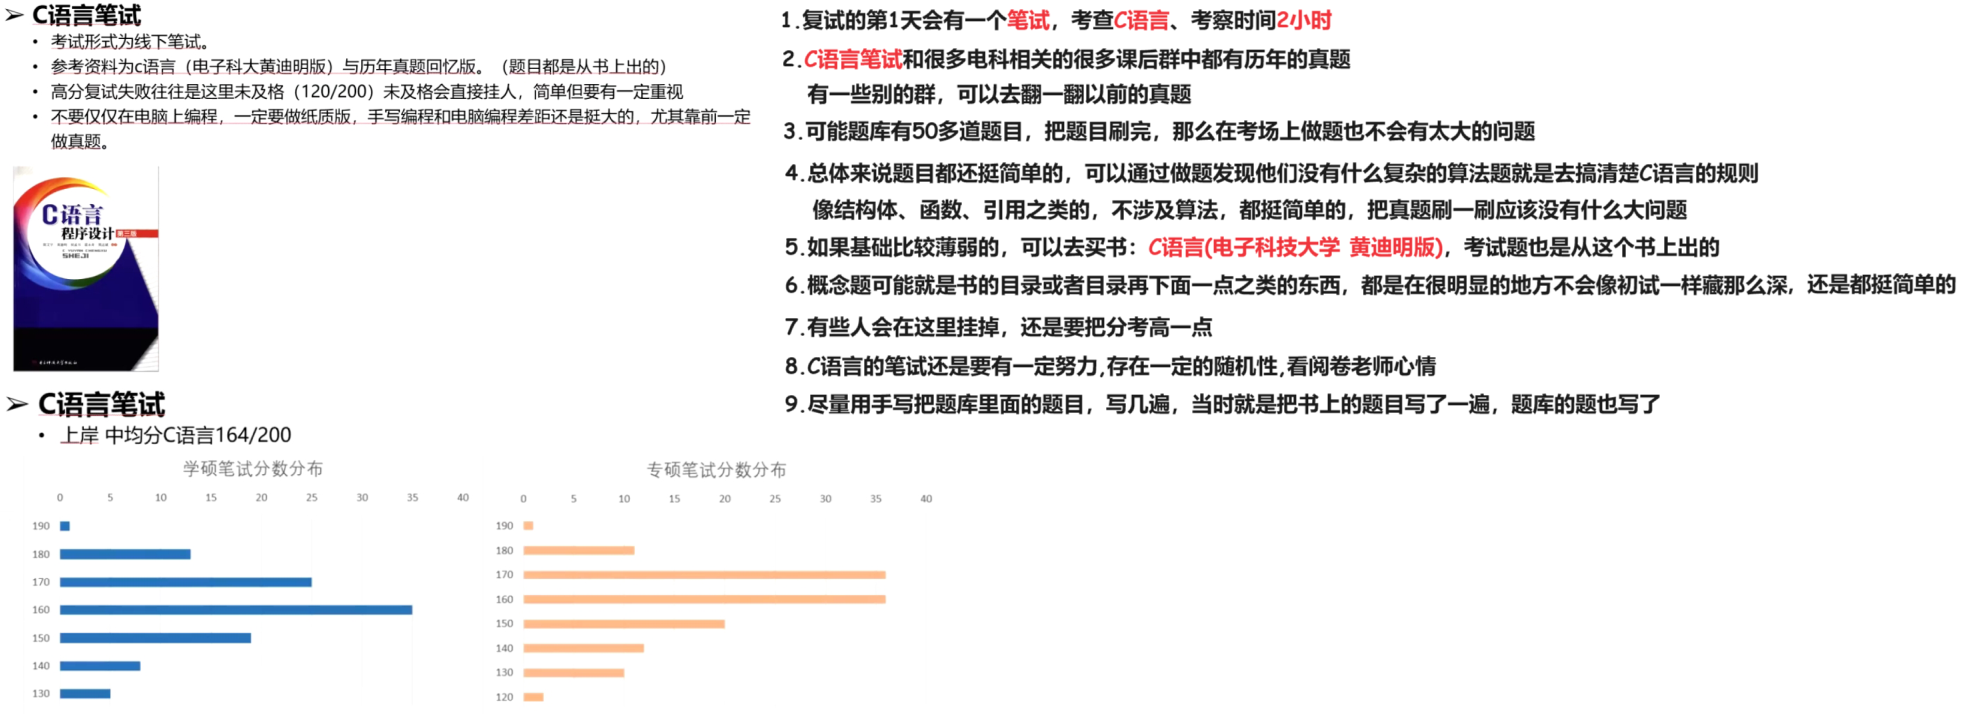
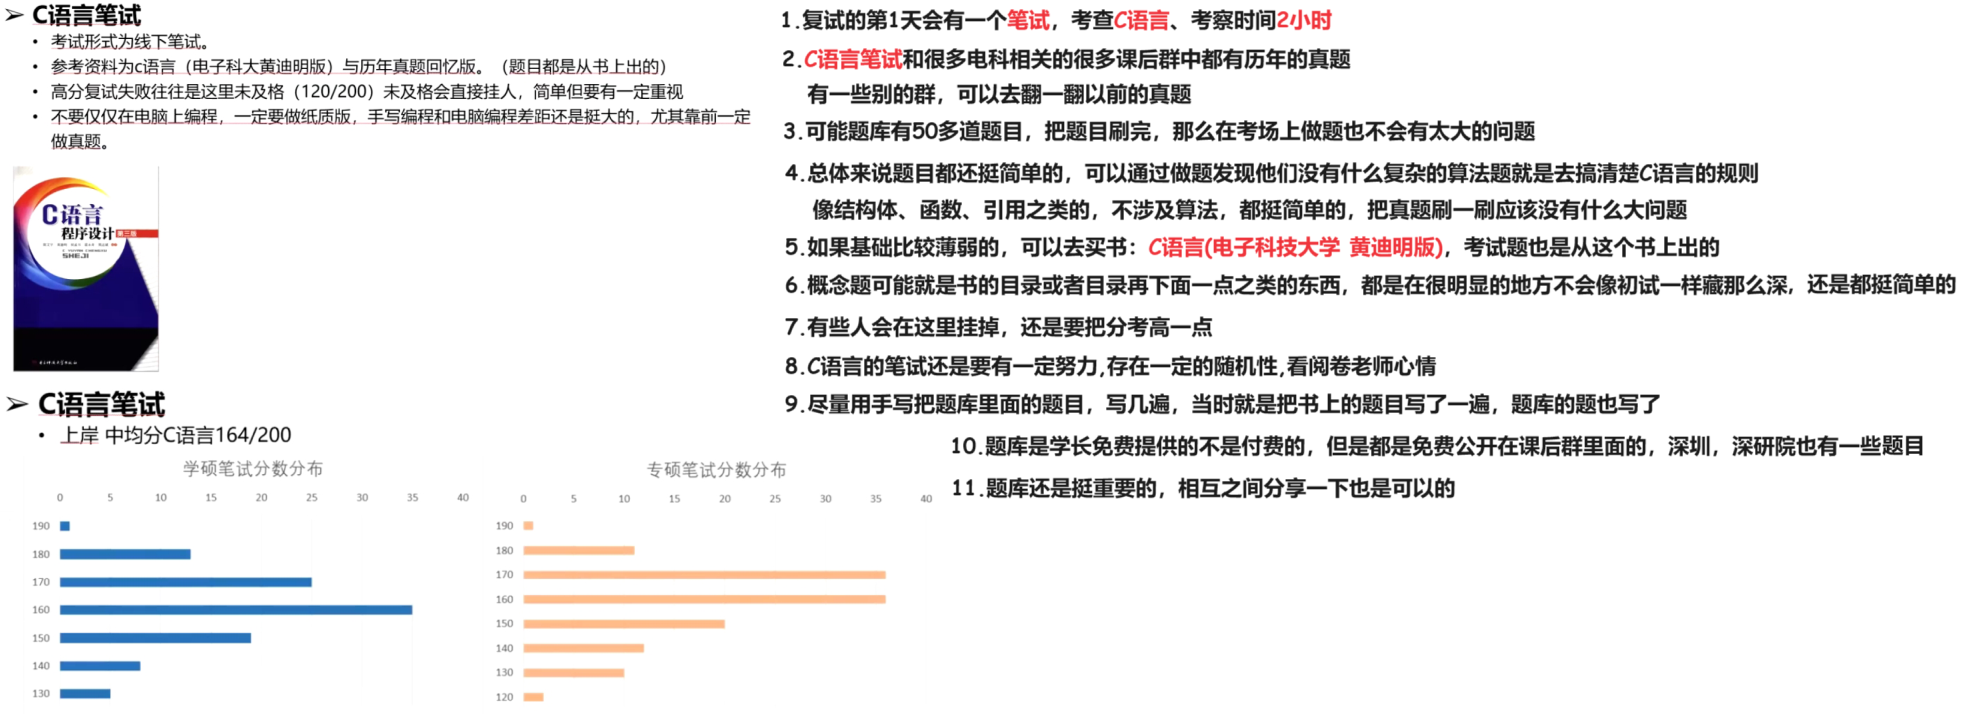
240317

Changed region(s): [[0.4654, 0.5854, 0.9929, 0.7087]]

diff --git a/02 复试/01 24 820定向班/02 直播视频/01 24 820定向班 复试指导直播 240317/02 Doc.md b/02 复试/01 24 820定向班/02 直播视频/01 24 820定向班 复试指导直播 240317/02 Doc.md
@@ -48,7 +48,9 @@
 
 # 03 C语言笔试
 
-<img src="https://cvp.oss-cn-shanghai.aliyuncs.com/picgo/202403161333287.png" alt="image-20240316133334116" style="zoom:50%;" />
+<img src="https://cvp.oss-cn-shanghai.aliyuncs.com/picgo/202403170846465.png" alt="image-20240317084653338" style="zoom:50%;" />
+
+
 
 # 04 专业课抽题
 
@@ -62,7 +64,7 @@
 
 # 05 简历准备
 
-<img src="https://cvp.oss-cn-shanghai.aliyuncs.com/picgo/202403170748553.png" alt="image-20240317074826368" style="zoom:50%;" />
+<img src="https://cvp.oss-cn-shanghai.aliyuncs.com/picgo/202403170909797.png" alt="image-20240317090910607" style="zoom:50%;" />
 
 
 
@@ -78,7 +80,7 @@
 
 ## 02 发邮件
 
-<img src="https://cvp.oss-cn-shanghai.aliyuncs.com/picgo/202403170832367.png" alt="image-20240317083259186" style="zoom:50%;" />
+<img src="https://cvp.oss-cn-shanghai.aliyuncs.com/picgo/202403170850298.png" alt="image-20240317085006116" style="zoom:50%;" />
 
 
 
